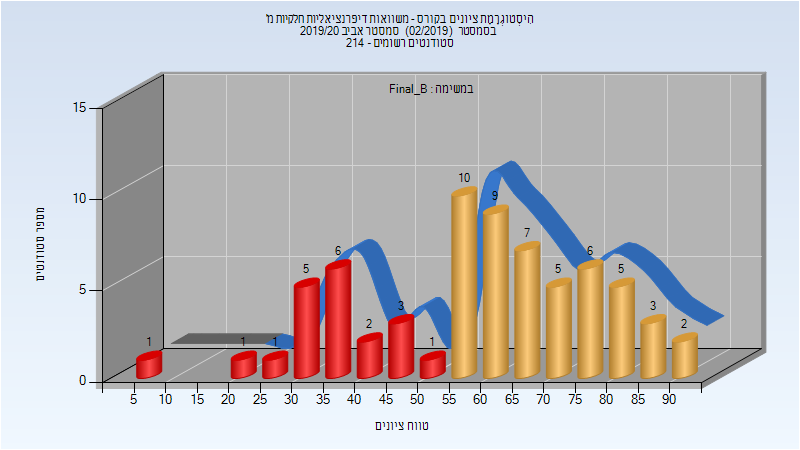
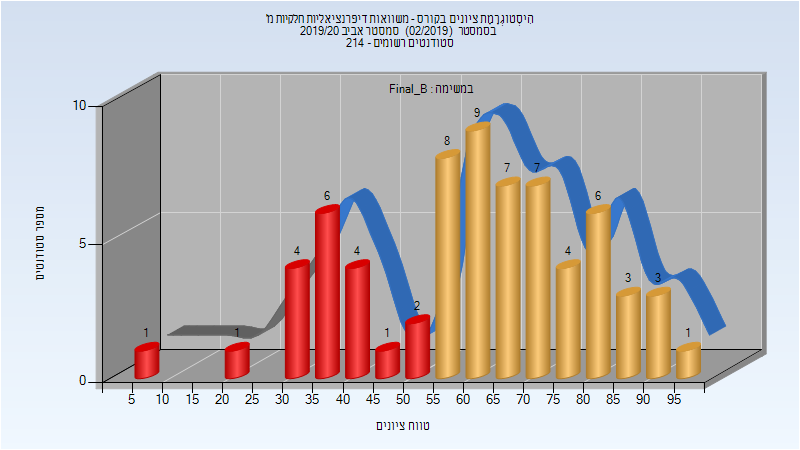
Deploy michael-maltsev/technion-histograms to github.com/michael-maltsev/technion-histograms.git:gh-pages

diff --git a/034015/index.html b/034015/index.html
@@ -939,6 +939,32 @@
 </tr>
 </tbody>
 </table>
+<h3>סופי מועד ב'</h3>
+<p><img src="201902/Final_B.png" alt="201902 Final_B" /></p>
+<table>
+<thead>
+<tr>
+<th>סטודנטים</th>
+<th>עברו/נכשלו</th>
+<th>אחוז עוברים</th>
+<th>ציון מינימלי</th>
+<th>ציון מקסימלי</th>
+<th>ממוצע</th>
+<th>חציון</th>
+</tr>
+</thead>
+<tbody>
+<tr>
+<td>50</td>
+<td>42/8</td>
+<td>84</td>
+<td>26</td>
+<td>100</td>
+<td>72.46</td>
+<td>77</td>
+</tr>
+</tbody>
+</table>
 <h3>סופי</h3>
 <p><img src="201902/Finals.png" alt="201902 Finals" /></p>
 <table>

diff --git a/104228/index.html b/104228/index.html
@@ -1697,12 +1697,12 @@
 <tbody>
 <tr>
 <td>67</td>
-<td>39/28</td>
-<td>58</td>
-<td>3</td>
-<td>92.15</td>
-<td>56.434</td>
-<td>58.3</td>
+<td>41/26</td>
+<td>61</td>
+<td>4</td>
+<td>94</td>
+<td>58.179</td>
+<td>59</td>
 </tr>
 </tbody>
 </table>
@@ -1723,12 +1723,12 @@
 <tbody>
 <tr>
 <td>67</td>
-<td>47/20</td>
-<td>70</td>
-<td>6</td>
-<td>93</td>
-<td>59.731</td>
-<td>62</td>
+<td>48/19</td>
+<td>72</td>
+<td>7</td>
+<td>95</td>
+<td>61.328</td>
+<td>63</td>
 </tr>
 </tbody>
 </table>

diff --git a/104228/README.md b/104228/README.md
@@ -534,7 +534,7 @@
 
 | סטודנטים | עברו/נכשלו | אחוז עוברים | ציון מינימלי | ציון מקסימלי | ממוצע | חציון |
 | ---- | ---- | ---- | ---- | ---- | ---- | ---- |
-| 67 | 39/28 | 58 | 3 | 92.15 | 56.434 | 58.3 |
+| 67 | 41/26 | 61 | 4 | 94 | 58.179 | 59 |
 
 ### סופי מועד ב'
 
@@ -542,7 +542,7 @@
 
 | סטודנטים | עברו/נכשלו | אחוז עוברים | ציון מינימלי | ציון מקסימלי | ממוצע | חציון |
 | ---- | ---- | ---- | ---- | ---- | ---- | ---- |
-| 67 | 47/20 | 70 | 6 | 93 | 59.731 | 62 |
+| 67 | 48/19 | 72 | 7 | 95 | 61.328 | 63 |
 
 ### סופי
 

diff --git a/034015/README.md b/034015/README.md
@@ -292,6 +292,14 @@
 | ---- | ---- | ---- | ---- | ---- | ---- | ---- |
 | 112 | 101/11 | 90 | 30 | 100 | 76.812 | 81 |
 
+### סופי מועד ב'
+
+![201902 Final_B](201902/Final_B.png)
+
+| סטודנטים | עברו/נכשלו | אחוז עוברים | ציון מינימלי | ציון מקסימלי | ממוצע | חציון |
+| ---- | ---- | ---- | ---- | ---- | ---- | ---- |
+| 50 | 42/8 | 84 | 26 | 100 | 72.46 | 77 |
+
 ### סופי
 
 ![201902 Finals](201902/Finals.png)
